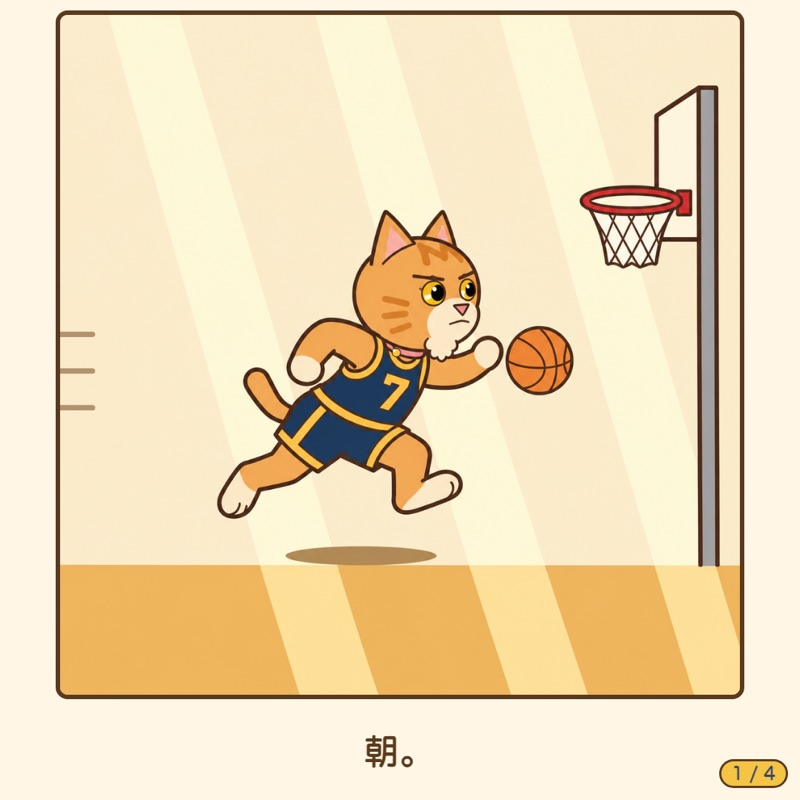
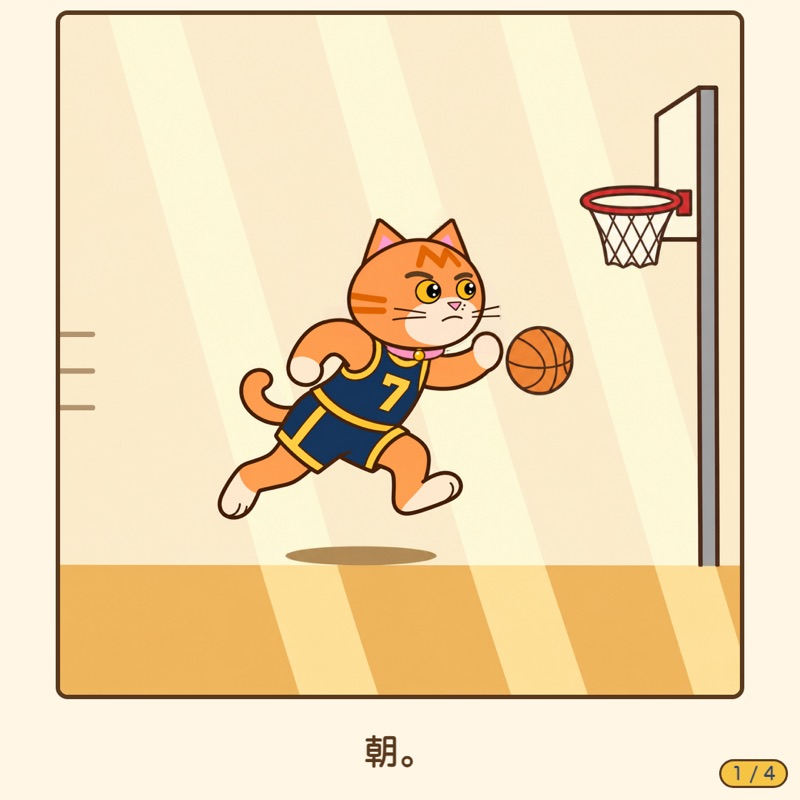
読むページ：第47話まで

diff --git a/yomu/index.html b/yomu/index.html
@@ -84,13 +84,13 @@ footer a{color:var(--deep)}
 <article class="ep" id="ep28"><h2><span class="no">第28話</span>パス②<small>11月5日</small></h2><div class="koma"><img src="img/028_1.jpg?v=1794456007" alt="第28話 1コマめ" loading="lazy" width="800" height="800"><img src="img/028_2.jpg?v=1794456007" alt="第28話 2コマめ" loading="lazy" width="800" height="800"><img src="img/028_3.jpg?v=1794456007" alt="第28話 3コマめ" loading="lazy" width="800" height="800"><img src="img/028_4.jpg?v=1794456007" alt="第28話 4コマめ" loading="lazy" width="800" height="800"></div><p class="cap">ドラ、ミケをさそう。第2回。<br>手には、謎解きイベントのチラシ。<br>帰り道は、もう冬のにおいがしました。</p></article>
 <article class="ep" id="ep29"><h2><span class="no">第29話</span>練習試合のおねがい<small>11月6日</small></h2><div class="koma"><img src="img/029_1.jpg?v=1793967579" alt="第29話 1コマめ" loading="lazy" width="800" height="800"><img src="img/029_2.jpg?v=1794456008" alt="第29話 2コマめ" loading="lazy" width="800" height="800"><img src="img/029_3.jpg?v=1794456008" alt="第29話 3コマめ" loading="lazy" width="800" height="800"><img src="img/029_4.jpg?v=1794456008" alt="第29話 4コマめ" loading="lazy" width="800" height="800"></div><p class="cap">手紙が、来た。<br>差出人は、タダシ。<br>相手は、3匹。こちらは、2匹。</p></article>
 <article class="ep" id="ep30"><h2><span class="no">第30話</span>プチ修行①<small>11月7日</small></h2><div class="koma"><img src="img/030_1.jpg?v=1794456008" alt="第30話 1コマめ" loading="lazy" width="800" height="800"><img src="img/030_2.jpg?v=1794456008" alt="第30話 2コマめ" loading="lazy" width="800" height="800"><img src="img/030_3.jpg?v=1794456008" alt="第30話 3コマめ" loading="lazy" width="800" height="800"><img src="img/030_4.jpg?v=1794456008" alt="第30話 4コマめ" loading="lazy" width="800" height="800"></div><p class="cap">練習試合の前の夜。相手は3匹、こちらは2匹。<br>ドラは、ひとりで体育館にいた。</p></article>
-<article class="ep" id="ep31"><h2><span class="no">第31話</span>プチ修行②<small>11月7日</small></h2><div class="koma"><img src="img/031_1.jpg?v=1794645811" alt="第31話 1コマめ" loading="lazy" width="800" height="800"><img src="img/031_2.jpg?v=1794645812" alt="第31話 2コマめ" loading="lazy" width="800" height="800"><img src="img/031_3.jpg?v=1794645812" alt="第31話 3コマめ" loading="lazy" width="800" height="800"><img src="img/031_4.jpg?v=1794645812" alt="第31話 4コマめ" loading="lazy" width="800" height="800"></div><p class="cap">朝。<br>…ドラが、燃えてる。</p></article>
-<article class="ep" id="ep32"><h2><span class="no">第32話</span>練習試合①<small>11月8日</small></h2><div class="koma"><img src="img/032_1.jpg?v=1794456008" alt="第32話 1コマめ" loading="lazy" width="800" height="800"><img src="img/032_2.jpg?v=1794964276" alt="第32話 2コマめ" loading="lazy" width="800" height="800"><img src="img/032_3.jpg?v=1794645812" alt="第32話 3コマめ" loading="lazy" width="800" height="800"><img src="img/032_4.jpg?v=1794645812" alt="第32話 4コマめ" loading="lazy" width="800" height="800"></div><p class="cap">練習試合、はじまる。<br>【今の状況】カギしっぽ 8−2 長しっぽ（前半 6:40）<br>長しっぽの体育館で、3匹 対 2匹。<br>ドラが、先に走った。</p></article>
-<article class="ep" id="ep33"><h2><span class="no">第33話</span>練習試合②<small>11月8日</small></h2><div class="koma"><img src="img/033_1.jpg?v=1794645812" alt="第33話 1コマめ" loading="lazy" width="800" height="800"><img src="img/033_2.jpg?v=1794964276" alt="第33話 2コマめ" loading="lazy" width="800" height="800"><img src="img/033_3.jpg?v=1794645812" alt="第33話 3コマめ" loading="lazy" width="800" height="800"><img src="img/033_4.jpg?v=1794645812" alt="第33話 4コマめ" loading="lazy" width="800" height="800"></div><p class="cap">練習試合、前半。<br>【今の状況】カギしっぽ 8−8 長しっぽ（前半 5:30）<br>ツムジは、ボールを見ない。<br>よそ見のまま、追いつかれた。</p></article>
+<article class="ep" id="ep31"><h2><span class="no">第31話</span>プチ修行②<small>11月7日</small></h2><div class="koma"><img src="img/031_1.jpg?v=1795106939" alt="第31話 1コマめ" loading="lazy" width="800" height="800"><img src="img/031_2.jpg?v=1795106939" alt="第31話 2コマめ" loading="lazy" width="800" height="800"><img src="img/031_3.jpg?v=1795106939" alt="第31話 3コマめ" loading="lazy" width="800" height="800"><img src="img/031_4.jpg?v=1795106939" alt="第31話 4コマめ" loading="lazy" width="800" height="800"></div><p class="cap">朝。<br>…ドラが、燃えてる。</p></article>
+<article class="ep" id="ep32"><h2><span class="no">第32話</span>練習試合①<small>11月8日</small></h2><div class="koma"><img src="img/032_1.jpg?v=1795106939" alt="第32話 1コマめ" loading="lazy" width="800" height="800"><img src="img/032_2.jpg?v=1795106939" alt="第32話 2コマめ" loading="lazy" width="800" height="800"><img src="img/032_3.jpg?v=1795106939" alt="第32話 3コマめ" loading="lazy" width="800" height="800"><img src="img/032_4.jpg?v=1795106939" alt="第32話 4コマめ" loading="lazy" width="800" height="800"></div><p class="cap">練習試合、はじまる。<br>【今の状況】カギしっぽ 8−2 長しっぽ（前半 6:40）<br>長しっぽの体育館で、3匹 対 2匹。<br>ドラが、先に走った。</p></article>
+<article class="ep" id="ep33"><h2><span class="no">第33話</span>練習試合②<small>11月8日</small></h2><div class="koma"><img src="img/033_1.jpg?v=1794645812" alt="第33話 1コマめ" loading="lazy" width="800" height="800"><img src="img/033_2.jpg?v=1795106943" alt="第33話 2コマめ" loading="lazy" width="800" height="800"><img src="img/033_3.jpg?v=1794645812" alt="第33話 3コマめ" loading="lazy" width="800" height="800"><img src="img/033_4.jpg?v=1794645812" alt="第33話 4コマめ" loading="lazy" width="800" height="800"></div><p class="cap">練習試合、前半。<br>【今の状況】カギしっぽ 8−8 長しっぽ（前半 5:30）<br>ツムジは、ボールを見ない。<br>よそ見のまま、追いつかれた。</p></article>
 <article class="ep" id="ep34"><h2><span class="no">第34話</span>練習試合③<small>11月8日</small></h2><div class="koma"><img src="img/034_1.jpg?v=1794456008" alt="第34話 1コマめ" loading="lazy" width="800" height="800"><img src="img/034_2.jpg?v=1794964276" alt="第34話 2コマめ" loading="lazy" width="800" height="800"><img src="img/034_3.jpg?v=1794645812" alt="第34話 3コマめ" loading="lazy" width="800" height="800"><img src="img/034_4.jpg?v=1794645812" alt="第34話 4コマめ" loading="lazy" width="800" height="800"></div><p class="cap">練習試合、前半のまんなか。<br>【今の状況】カギしっぽ 10−8 長しっぽ（前半 4:20）<br>一度だけ、リードした。<br>でも、パスしようとしたら…</p></article>
-<article class="ep" id="ep35"><h2><span class="no">第35話</span>練習試合④<small>11月9日</small></h2><div class="koma"><img src="img/035_1.jpg?v=1794964276" alt="第35話 1コマめ" loading="lazy" width="800" height="800"><img src="img/035_2.jpg?v=1794456009" alt="第35話 2コマめ" loading="lazy" width="800" height="800"><img src="img/035_3.jpg?v=1794645812" alt="第35話 3コマめ" loading="lazy" width="800" height="800"><img src="img/035_4.jpg?v=1794645812" alt="第35話 4コマめ" loading="lazy" width="800" height="800"></div><p class="cap">練習試合、前半のおわり。<br>【今の状況】カギしっぽ 12−24 長しっぽ（前半おわり）<br>パスする仲間は、寝ている。<br>3匹の長しっぽは、止まらない。</p></article>
+<article class="ep" id="ep35"><h2><span class="no">第35話</span>練習試合④<small>11月9日</small></h2><div class="koma"><img src="img/035_1.jpg?v=1795106943" alt="第35話 1コマめ" loading="lazy" width="800" height="800"><img src="img/035_2.jpg?v=1794456009" alt="第35話 2コマめ" loading="lazy" width="800" height="800"><img src="img/035_3.jpg?v=1794645812" alt="第35話 3コマめ" loading="lazy" width="800" height="800"><img src="img/035_4.jpg?v=1794645812" alt="第35話 4コマめ" loading="lazy" width="800" height="800"></div><p class="cap">練習試合、前半のおわり。<br>【今の状況】カギしっぽ 12−24 長しっぽ（前半おわり）<br>パスする仲間は、寝ている。<br>3匹の長しっぽは、止まらない。</p></article>
 <article class="ep" id="ep36"><h2><span class="no">第36話</span>練習試合⑤<small>11月9日</small></h2><div class="koma"><img src="img/036_1.jpg?v=1794964276" alt="第36話 1コマめ" loading="lazy" width="800" height="800"><img src="img/036_2.jpg?v=1794456009" alt="第36話 2コマめ" loading="lazy" width="800" height="800"><img src="img/036_3.jpg?v=1794456009" alt="第36話 3コマめ" loading="lazy" width="800" height="800"><img src="img/036_4.jpg?v=1794456009" alt="第36話 4コマめ" loading="lazy" width="800" height="800"></div><p class="cap">練習試合、後半。<br>【今の状況】カギしっぽ 18−24 長しっぽ（後半 6:10）<br>ドラが、ひとりで6点差まで追い上げる。<br>しっぽも、体の一部。</p></article>
-<article class="ep" id="ep37"><h2><span class="no">第37話</span>練習試合⑥<small>11月9日</small></h2><div class="koma"><img src="img/037_1.jpg?v=1794964276" alt="第37話 1コマめ" loading="lazy" width="800" height="800"><img src="img/037_2.jpg?v=1794456009" alt="第37話 2コマめ" loading="lazy" width="800" height="800"><img src="img/037_3.jpg?v=1794456009" alt="第37話 3コマめ" loading="lazy" width="800" height="800"><img src="img/037_4.jpg?v=1794456009" alt="第37話 4コマめ" loading="lazy" width="800" height="800"></div><p class="cap">練習試合、最後。<br>【今の状況】カギしっぽ 20−50 長しっぽ（試合終了）<br>ツムジは、最後までゴールを見なかった。<br>完敗。</p></article>
+<article class="ep" id="ep37"><h2><span class="no">第37話</span>練習試合⑥<small>11月9日</small></h2><div class="koma"><img src="img/037_1.jpg?v=1795106943" alt="第37話 1コマめ" loading="lazy" width="800" height="800"><img src="img/037_2.jpg?v=1794456009" alt="第37話 2コマめ" loading="lazy" width="800" height="800"><img src="img/037_3.jpg?v=1794456009" alt="第37話 3コマめ" loading="lazy" width="800" height="800"><img src="img/037_4.jpg?v=1794456009" alt="第37話 4コマめ" loading="lazy" width="800" height="800"></div><p class="cap">練習試合、最後。<br>【今の状況】カギしっぽ 20−50 長しっぽ（試合終了）<br>ツムジは、最後までゴールを見なかった。<br>完敗。</p></article>
 <article class="ep" id="ep38"><h2><span class="no">第38話</span>修行①<small>11月10日</small></h2><div class="koma"><img src="img/038_1.jpg?v=1795070755" alt="第38話 1コマめ" loading="lazy" width="800" height="800"><img src="img/038_2.jpg?v=1794959316" alt="第38話 2コマめ" loading="lazy" width="800" height="800"><img src="img/038_3.jpg?v=1795070755" alt="第38話 3コマめ" loading="lazy" width="800" height="800"><img src="img/038_4.jpg?v=1795070755" alt="第38話 4コマめ" loading="lazy" width="800" height="800"></div><p class="cap">練習試合は、20−50。<br>20点は、ぜんぶドラでした。<br>次の朝、ちゃぶ台に手紙が1通。<br>（つづく）</p></article>
 <article class="ep" id="ep39"><h2><span class="no">第39話</span>修行②<small>11月11日</small></h2><div class="koma"><img src="img/039_1.jpg?v=1795070755" alt="第39話 1コマめ" loading="lazy" width="800" height="800"><img src="img/039_2.jpg?v=1795070755" alt="第39話 2コマめ" loading="lazy" width="800" height="800"><img src="img/039_3.jpg?v=1795070755" alt="第39話 3コマめ" loading="lazy" width="800" height="800"><img src="img/039_4.jpg?v=1795070755" alt="第39話 4コマめ" loading="lazy" width="800" height="800"></div><p class="cap">ドラ、山で修行中。<br>滝に打たれて、心をしずめます。<br>タマは、家でおるすばんです。<br>たぶん。</p></article>
 <article class="ep" id="ep40"><h2><span class="no">第40話</span>修行③<small>11月12日</small></h2><div class="koma"><img src="img/040_1.jpg?v=1795070755" alt="第40話 1コマめ" loading="lazy" width="800" height="800"><img src="img/040_2.jpg?v=1795070755" alt="第40話 2コマめ" loading="lazy" width="800" height="800"><img src="img/040_3.jpg?v=1795070755" alt="第40話 3コマめ" loading="lazy" width="800" height="800"><img src="img/040_4.jpg?v=1795070755" alt="第40話 4コマめ" loading="lazy" width="800" height="800"></div><p class="cap">木の枝に、つるの輪。<br>地面に、大きな線。<br>ひとりで、何度も。</p></article>
